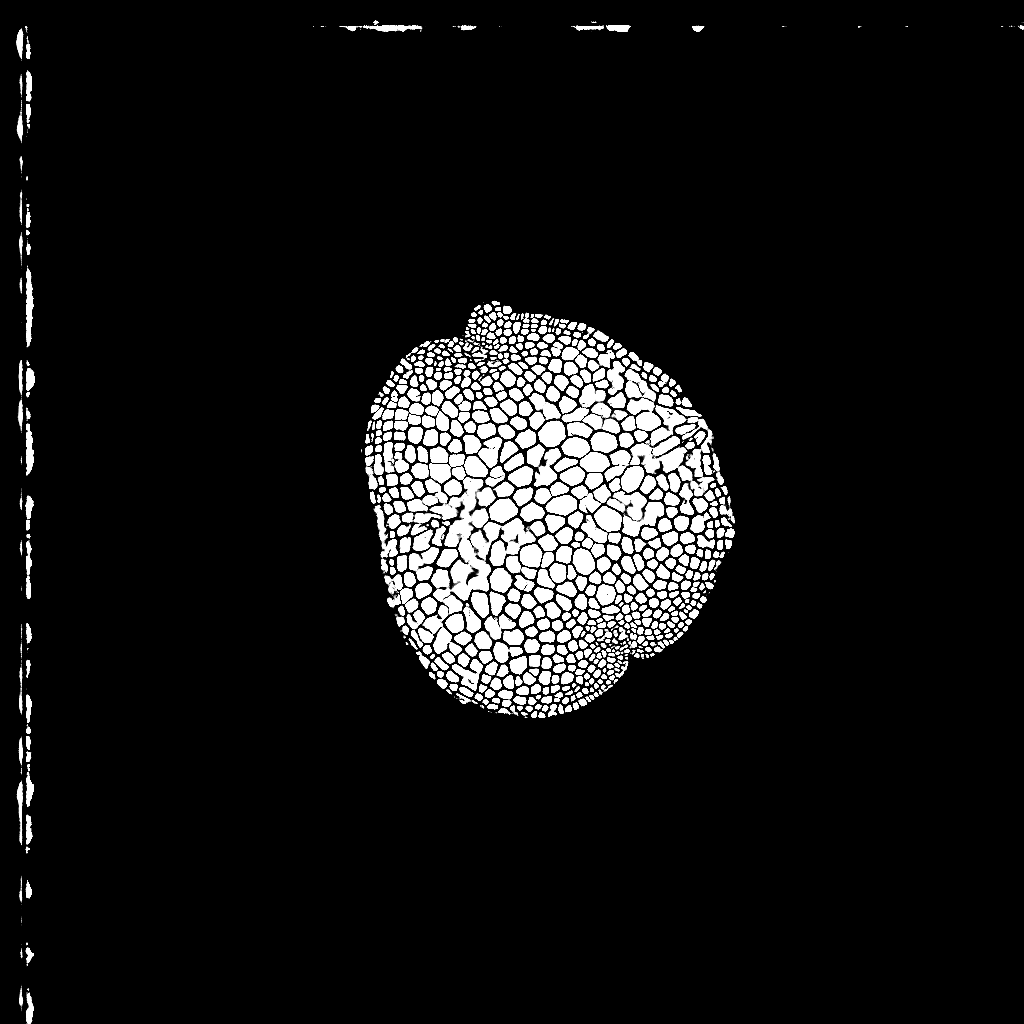
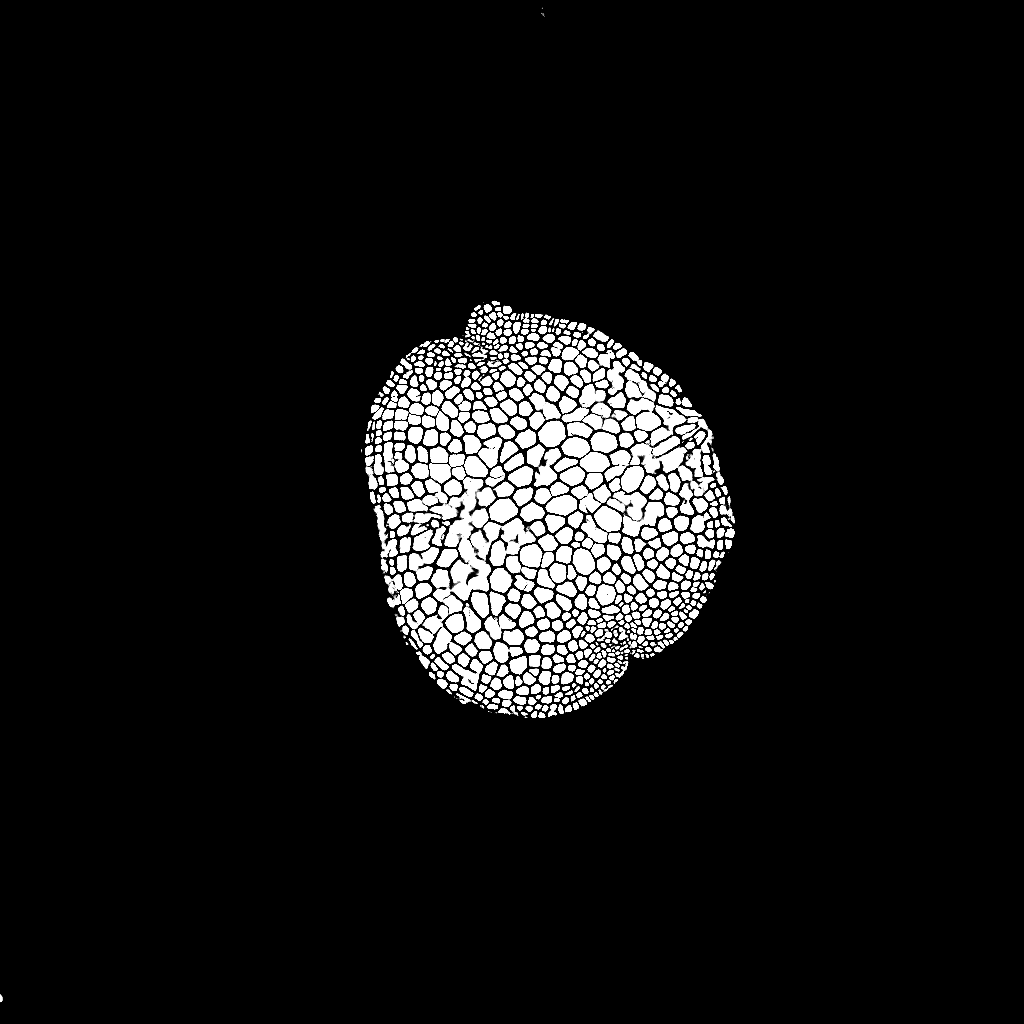
rerun of compariosn with +127.5 in enhanced

diff --git a/model.py b/model.py
@@ -221,12 +221,10 @@ class WESPE():
             predictions = self.G(self.testImg_patches, training=False).numpy()[:, self.kSize//2:-(self.kSize//2),self.kSize//2:-(self.kSize//2) :]
             print('img enhanced')
             newImg = patches_to_img(predictions, self.patchSize, verbose = False)
-            print('a')
             plt.imshow(newImg[:, :, 0] * 127.5 + 127.5, cmap='gray')
             plt.axis('off')
             enhImgPath = os.path.join(testFolder, 'enhanced_image.png')
-            print('b')
-            cv2.imwrite(enhImgPath, newImg[:, :, 0])
+            cv2.imwrite(enhImgPath, newImg[:, :, 0] * 127.5 + 127.5)
             
 
     def test_model(self, _type, testImgPatches, crop = None, ploting = False):

diff --git a/deep_learning_marcanthia/SCRIPTS/segmentation/semantic_model_testing.py b/deep_learning_marcanthia/SCRIPTS/segmentation/semantic_model_testing.py
@@ -42,7 +42,7 @@ def test_semantic_model(inputImgPath = '../data/g1_t036_c001.png', modelPath = '
         if image.shape[0] != 1024 or image.shape[1] != 1024:
             rowRem = 1024 - image.shape[0]
             colRem = 1024 - image.shape[1]
-            image = cv2.copyMakeBorder(image.copy(), rowRem, 0, colRem, 0, borderType = cv2.BORDER_CONSTANT)
+            image = cv2.copyMakeBorder(image.copy(), rowRem, 0, colRem, 0, borderType = cv2.BORDER_REFLECT)
 
         print('Image converted to RGB has shape: ', np.asarray(image).shape)
         image = np.asarray(image, dtype=np.float32) / 255
